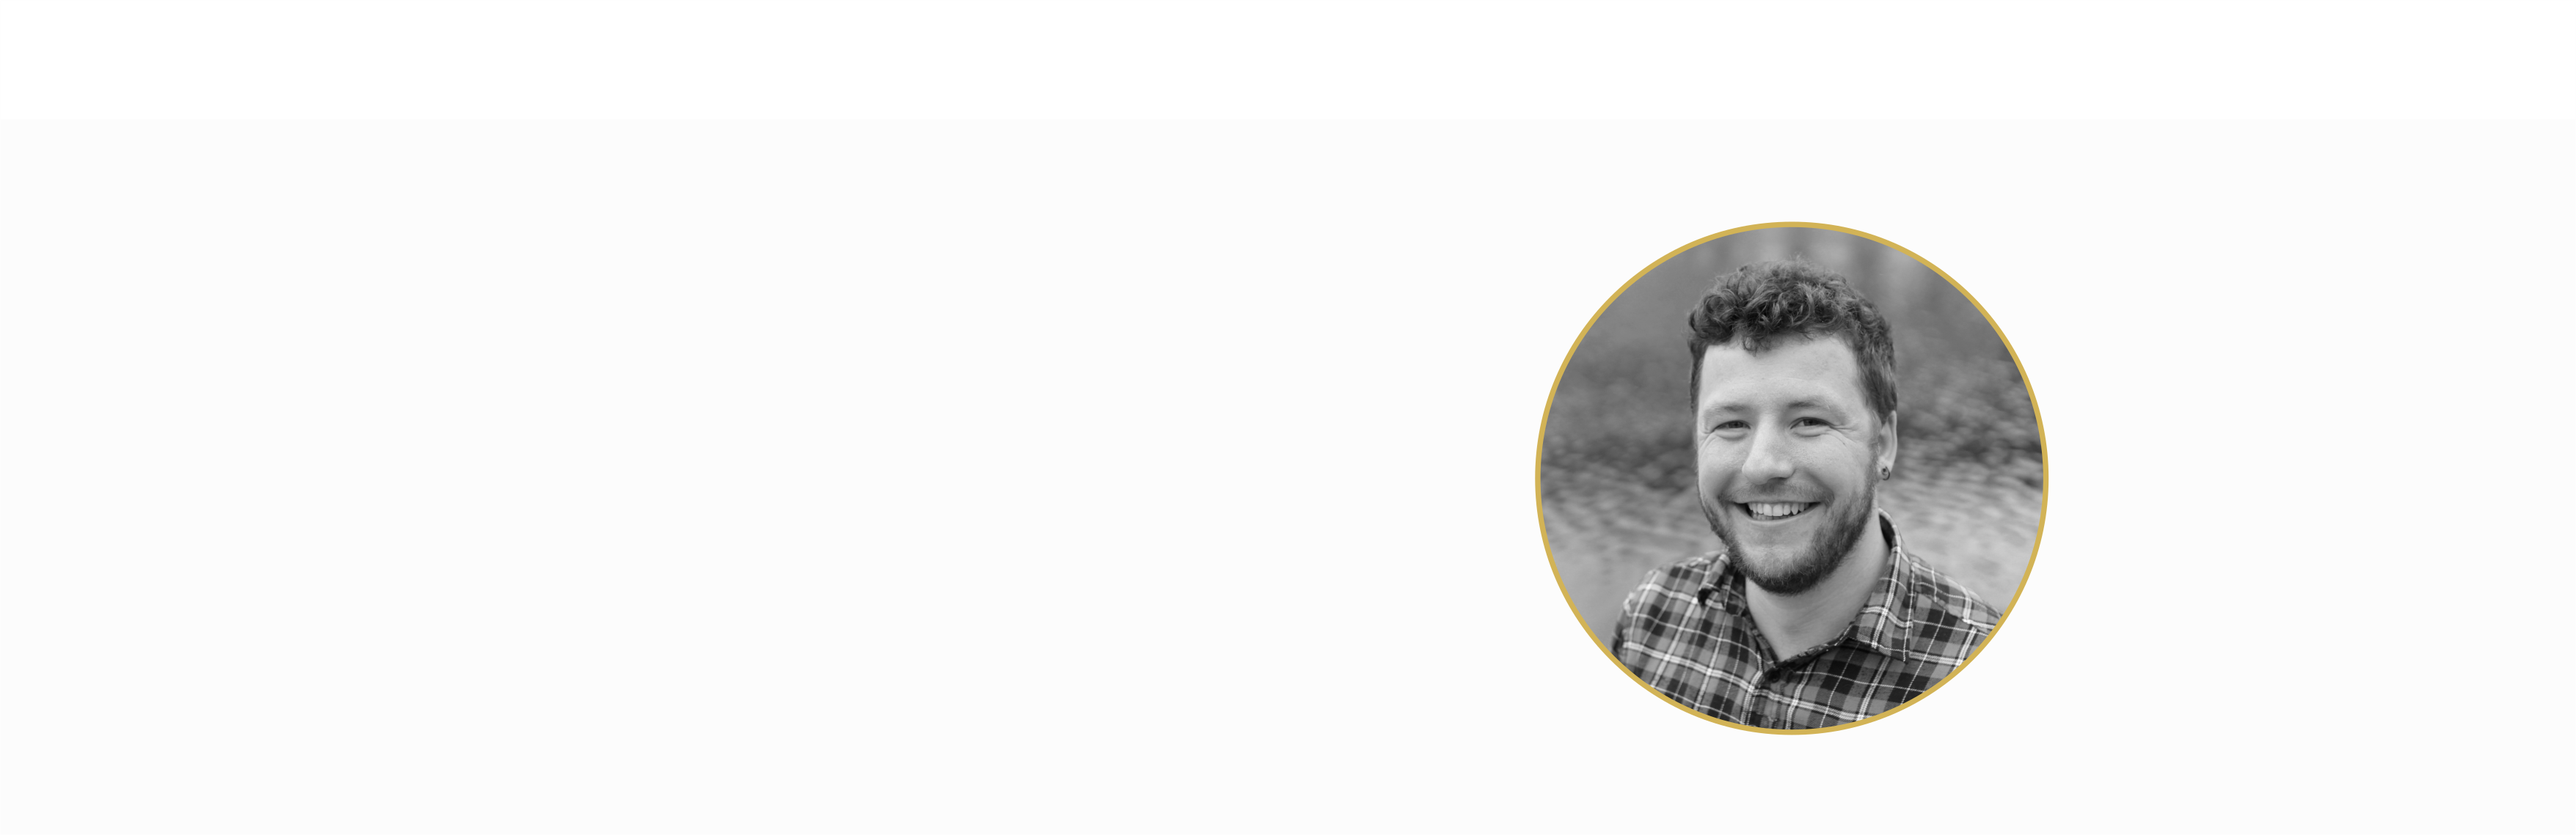
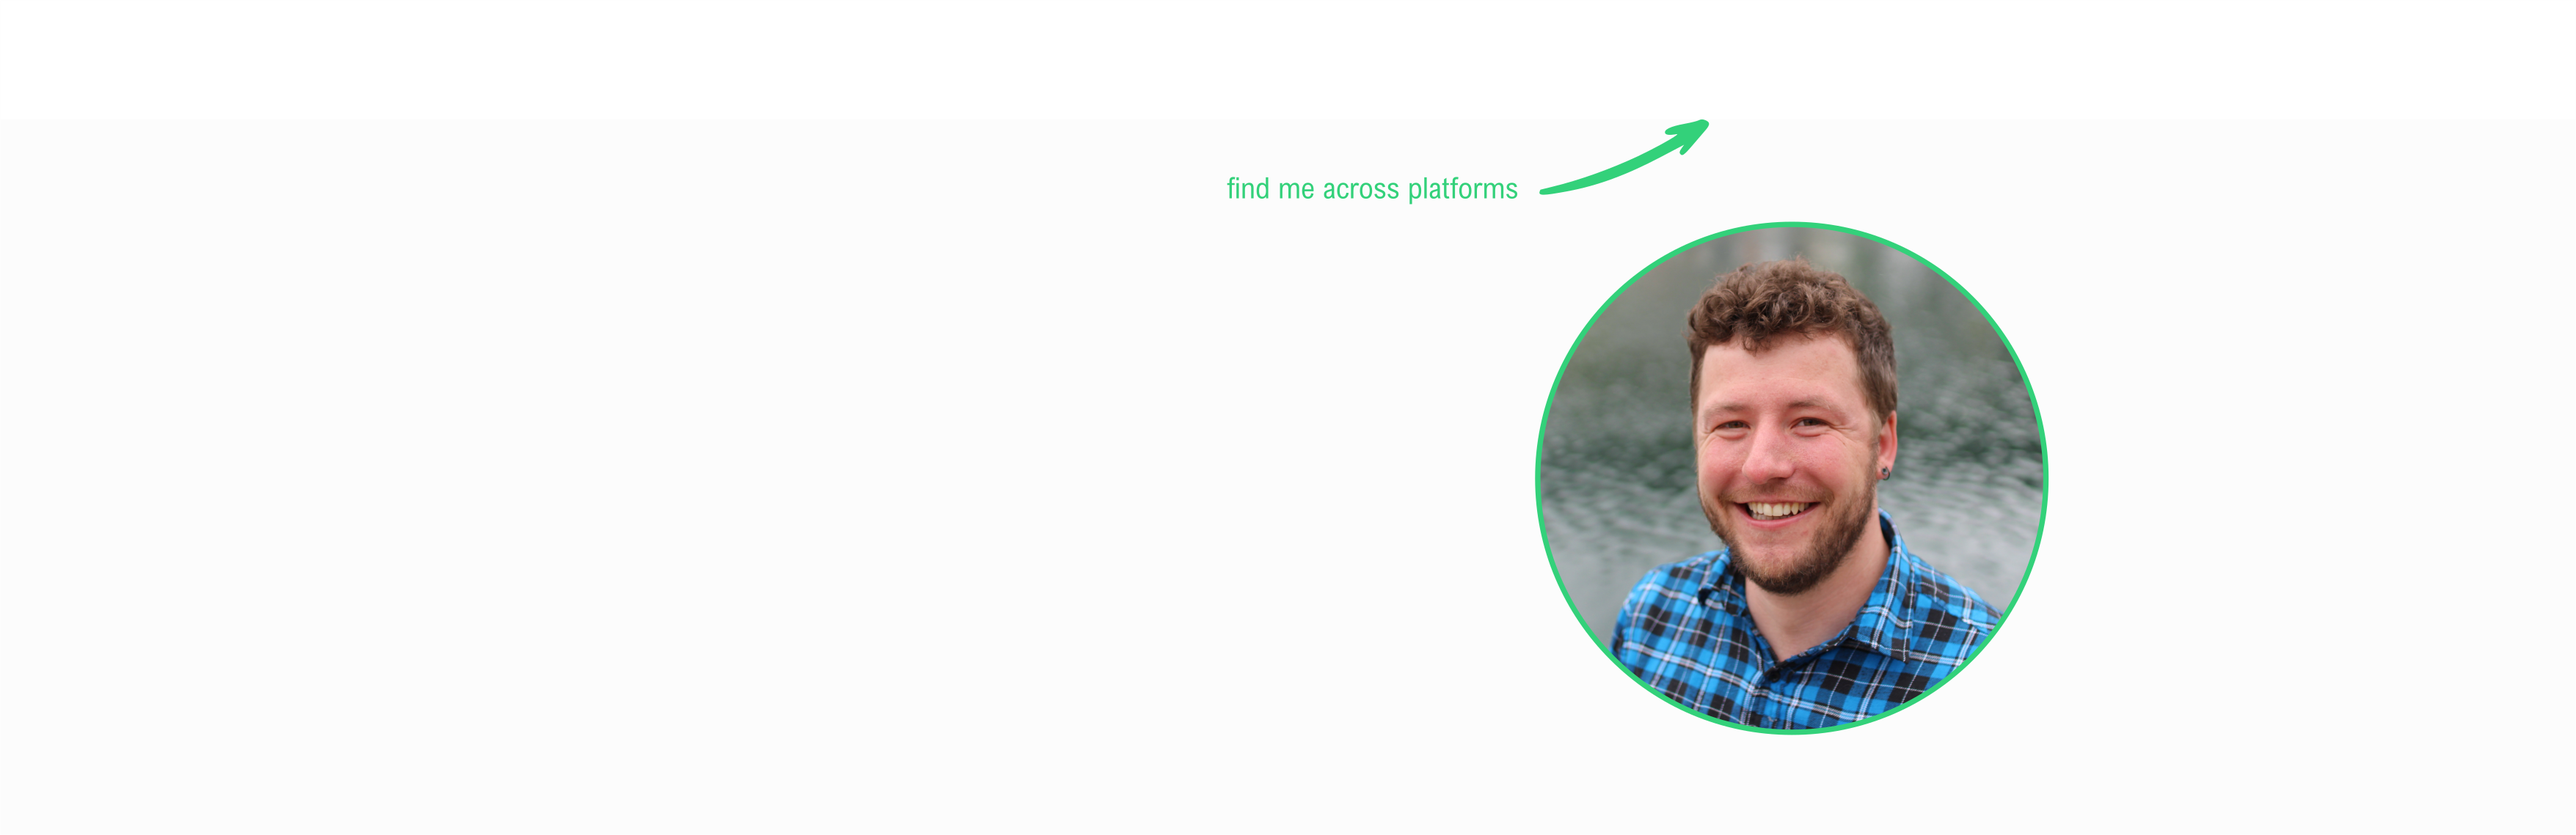
banne rupdated

diff --git a/css/namari-color.css b/css/namari-color.css
@@ -13,6 +13,8 @@
 /* 1. Website Default Styling */
 /*------------------------------------------------------------------------------------------*/
 
+/*yellowish-brown = #d2b356
+
 
 body {
     background:#fff;
@@ -22,27 +24,27 @@ body {
 /* Default Link Color */
 
 a, .la-ball-triangle-path {
-    color:#d2b356;
+    color:#33d17a;
 }
 
 a:hover, #header.nav-solid nav a:hover {
-    color:#d2b356;
+    color:#33d17a;
 }
 
 /* Default Icon Color */
 
 .icon i {
-    color:#d2b356;
+    color:#33d17a;
 }
 
 /* Border Color */
 
 #banner .section-heading:before, .testimonial.classic footer:before {
-    background: #d2b356;
+    background: #33d17a;
 }
 
 .pricing-block-content:hover {
-    border-color:#d2b356;
+    border-color:#33d17a;
 }
 
 
@@ -68,8 +70,8 @@ a:hover, #header.nav-solid nav a:hover {
 /* Navigation Active State */
 
 #header.nav-solid .active {
-    color: #d2b356;
-    border-color: #d2b356;
+    color: #33d17a;
+    border-color: #33d17a;
 }    
 
 
@@ -82,7 +84,7 @@ a:hover, #header.nav-solid nav a:hover {
 /* Primary Background and Text Colors */
 
 .primary-color, .featured .pricing {
-    background-color:#d2b356;
+    background-color:#33d17a;
 }
 
 .primary-color, .primary-color .section-title, .primary-color .section-subtitle, .featured .pricing, .featured .pricing p {
@@ -90,7 +92,7 @@ a:hover, #header.nav-solid nav a:hover {
 }
 
 .section-heading h2:after {
-    background:#d2b356;
+    background:#33d17a;
     content:"";
     display:block;
     width:30px;
@@ -282,8 +284,8 @@ h6 {
 /* Button Hover Color */
 
 .button:hover,  input[type="submit"]:hover {
-    border-color:#d2b356;
-    color:#d2b356;
+    border-color:#33d17a;
+    color:#33d17a;
 }
 
 
@@ -309,8 +311,8 @@ h6 {
 /* Button Hover Color */
 
 #banner .button:hover {
-    color:#d2b356;
-    border-color:#d2b356;
+    color:#33d17a;
+    border-color:#33d17a;
 }
 
 
